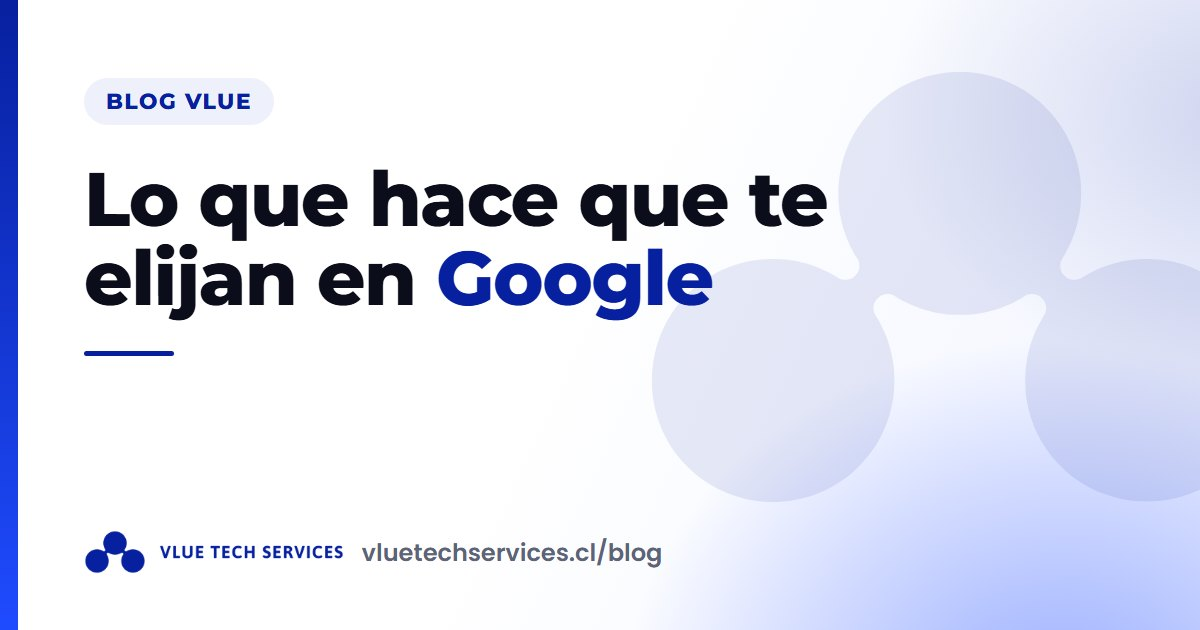
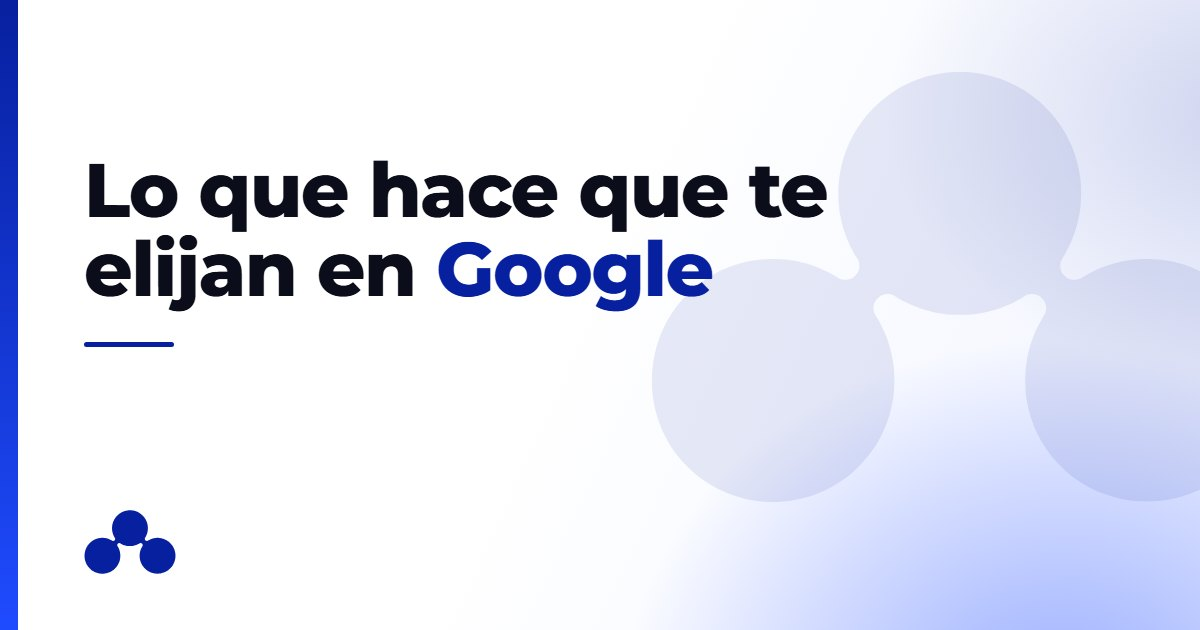
Imágenes del blog sin etiquetas y con el símbolo de Vlue solo

diff --git a/herramientas/og/plantilla-blog.html b/herramientas/og/plantilla-blog.html
@@ -12,13 +12,13 @@ body{position:relative;background:#fff;font-family:Poppins,sans-serif;color:#0b0
 .simbolo{position:absolute;right:-70px;top:70px;width:620px;aspect-ratio:652/456;background:#07209f;opacity:.09;
   -webkit-mask:url(SIMBOLO) center/contain no-repeat;mask:url(SIMBOLO) center/contain no-repeat}
 .franja{position:absolute;left:0;top:0;bottom:0;width:18px;background:linear-gradient(180deg,#07209f,#1f4bff)}
-.contenido{position:absolute;left:84px;top:78px;right:300px}
+.contenido{position:absolute;left:84px;top:150px;right:300px}
 .pill{display:inline-block;padding:10px 22px;border-radius:999px;background:#eef1fb;color:#07209f;font:800 22px Montserrat,sans-serif;letter-spacing:.06em;text-transform:uppercase}
-h1{margin-top:34px;font:800 76px/1.04 Montserrat,sans-serif;letter-spacing:-.02em;color:#0b0e1a}
+h1{margin-top:0;font:800 76px/1.04 Montserrat,sans-serif;letter-spacing:-.02em;color:#0b0e1a}
 h1 em{font-style:normal;color:#07209f}
 .linea{width:90px;height:5px;margin-top:34px;background:#07209f;border-radius:3px}
 .pie{position:absolute;left:84px;bottom:56px;display:flex;align-items:center;gap:18px}
-.pie img{height:44px;width:auto}
+.pie .logo{display:block;width:92px;aspect-ratio:652/456;background:#07209f;-webkit-mask:url(SIMBOLO) center/contain no-repeat;mask:url(SIMBOLO) center/contain no-repeat}
 .pie span{font:600 24px Poppins,sans-serif;color:#5c6478}
 </style></head>
 <body>
@@ -26,9 +26,8 @@ h1 em{font-style:normal;color:#07209f}
 <div class="simbolo"></div>
 <div class="franja"></div>
 <div class="contenido">
-  <span class="pill">Blog Vlue</span>
   <h1>Lo que hace que te elijan en <em>Google</em></h1>
   <div class="linea"></div>
 </div>
-<div class="pie"><img src="LOGO" alt=""><span>vluetechservices.cl/blog</span></div>
+<div class="pie"><span class="logo"></span></div>
 </body></html>
